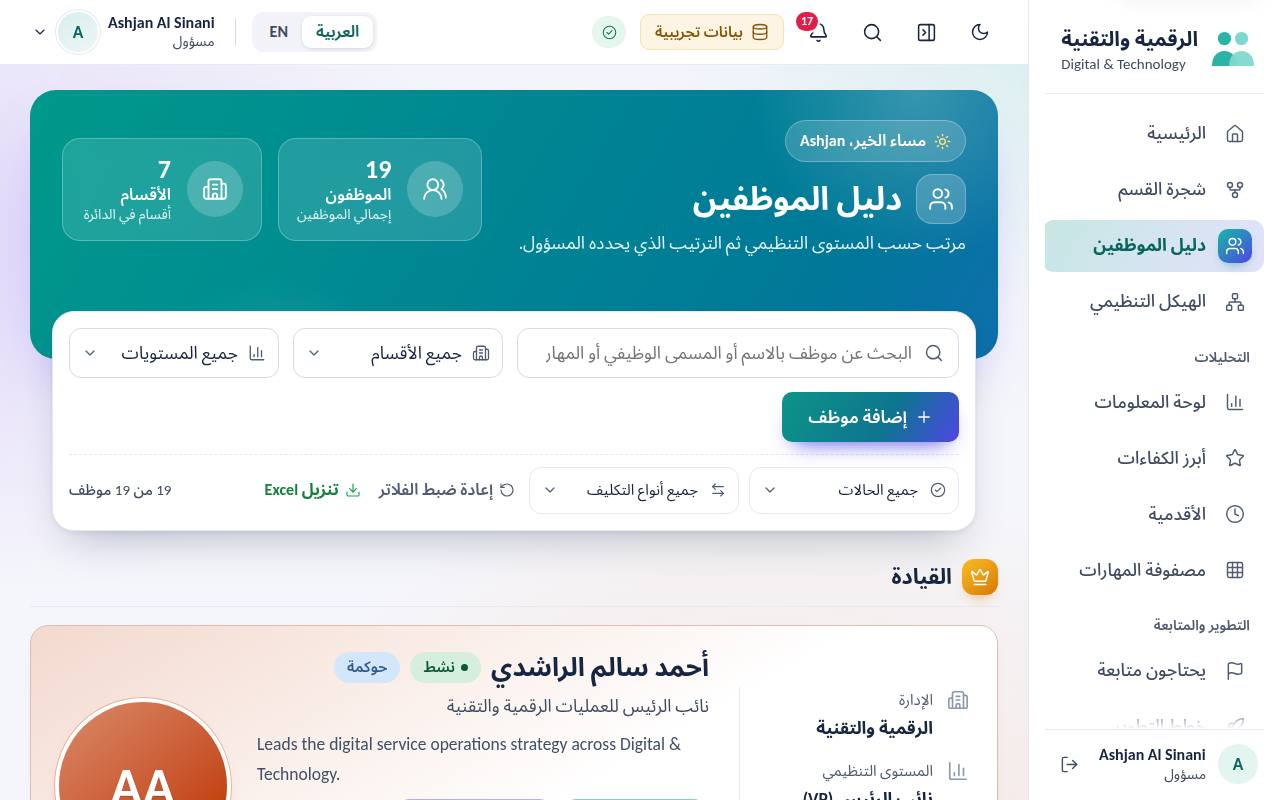
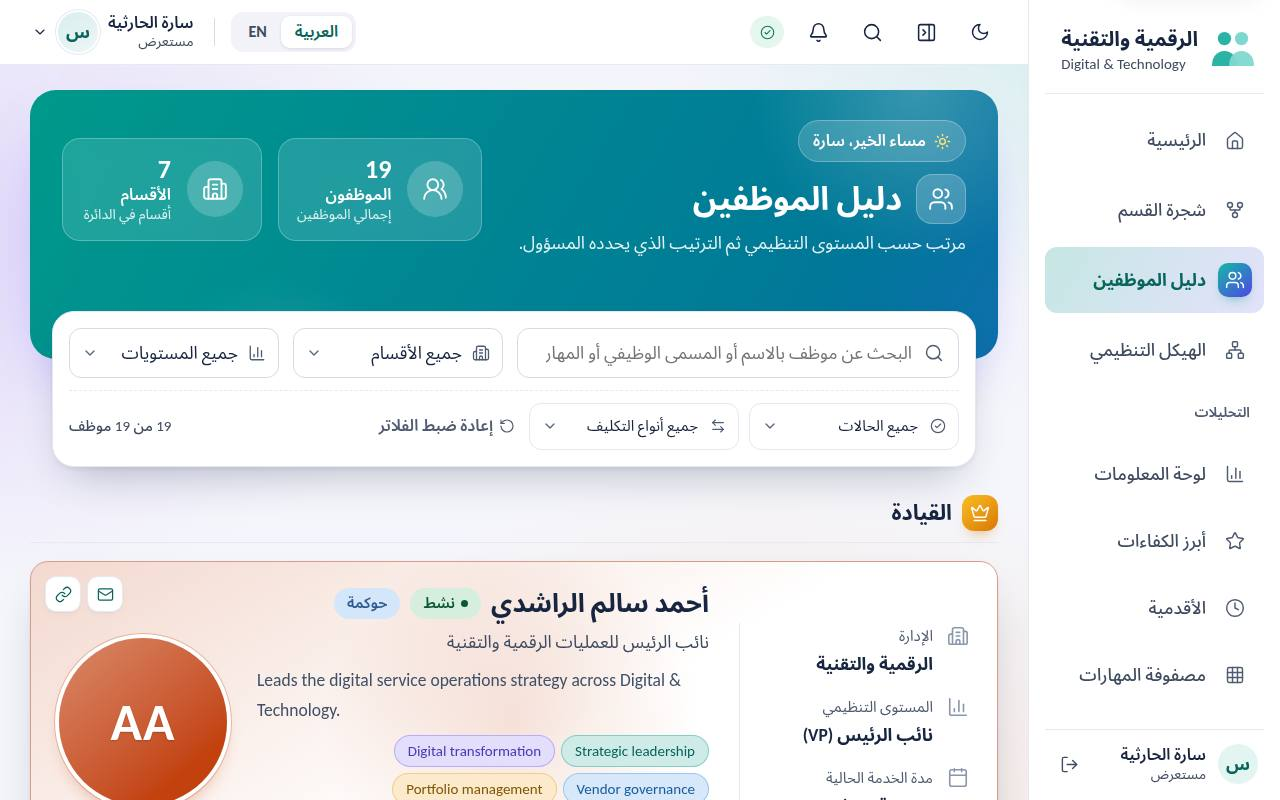
Narrate the tour in English and make it user-only
- English voice-over for every step using the browser's built-in
  speech synthesis (free, no server): best available English voice,
  steps wait for each sentence, pause/resume restarts the line, mute
  toggle remembered (M key); falls back to captions if no voice.
- Tour now covers what regular users see only (8 steps), with all
  screenshots retaken from a viewer account; admin and manager steps
  removed. Auto-opens for new users after the first-login password
  change, never for the owner; sign-out now returns to Home.
- Viewers' dashboard shows "Department overview" without management
  priorities or the high-priority column.

Claude-Session: https://claude.ai/code/session_01KUe5c3eo34UUJyRfExNPRe

diff --git a/employee-directory/assets/app.js b/employee-directory/assets/app.js
@@ -311,7 +311,7 @@ D.employees.forEach((e,ix)=>{let d;try{d=JSON.parse(e.data)}catch{return}if(d.ro
       </div>
     </header>
     <div id="dbody">
-      <section class="dx" id="dxec" aria-label="${a(i?"ملخص الإدارة":"Management summary")}"></section>
+      <section class="dx" id="dxec" aria-label="${a(i?"ملخص":"Summary")}"></section>
       <h2 class="dx-divider">${h("chart-pie",20)}<span>${a(i?"تفاصيل القوى العاملة":"Workforce details")}</span></h2>
       <section class="kpis" aria-label="${a(t("dashTitle"))}">
         ${Dk(p).map(g=>`<article class="kpi kpi-${g.tone}" data-dk="${g.id}" tabindex="0" role="button" aria-label="${a(g.label+" — "+(i?"عرض الموظفين":"show employees"))}" ${g.hid?"data-hidden":""} ${g.hint?`title="${a(g.hint)}"`:""}>${r.isAdmin()?Dtl("kpi",g):""}
@@ -1182,7 +1182,7 @@ async function Hr(e,n,{store:r}){let T=Tx,ar=E()==="ar";e.innerHTML=`<div class=
     <section class="h2-card h2-links"><header class="h2-ch"><span class="h2-ci" style="--c:#64748B">${h("compass",18)}</span><h2>${a(T("انتقال سريع","Jump to"))}</h2></header><div class="h2-qgrid">${links.map(([hf,ic,cl,l])=>`<a href="${hf}" style="--c:${cl}"><span>${h(ic,18)}</span>${a(l)}</a>`).join("")}</div></section>
    </div>
   </div></div>`;
- (()=>{let k="dtd-tour-"+(r.user&&r.user.id),seen=!1;try{seen=!!localStorage.getItem(k)}catch{}seen||setTimeout(()=>{location.hash.startsWith("#/home")||location.hash===""?Topen(0):0},700)})();
+ (()=>{let k="dtd-tour-"+(r.user&&r.user.id),seen=r.isAdmin();try{seen=seen||!!localStorage.getItem(k)}catch{}seen||(()=>{let n2=0,go=()=>{if(!(location.hash.startsWith("#/home")||location.hash===""))return;if(m(".modal-wrap")&&n2++<600){setTimeout(go,500);return}Topen(0)};setTimeout(go,700)})()})();
  m(".h2-search",e).onsubmit=z=>{z.preventDefault();let v=m("#h2q",e).value.trim();window.__DTD_FOCUS_SEARCH=!0;v&&(window.__DTD_Q=v);mt("#/directory",{force:!0})};
  e.onclick=z=>{let b=z.target.closest("[data-hm-bell]");b&&(z.preventDefault(),z.stopPropagation(),scrollTo({top:0,behavior:"smooth"}),setTimeout(()=>Bopen(),250))}}
 /* ---------- Org chart (top-down tree) ---------- */
@@ -1224,7 +1224,7 @@ async function Ocr(e,n,{store:r}){let T=Tx,ar=E()==="ar";e.innerHTML=`<div class
 var Xst=(v,good,warn,inv)=>inv?(v<=good?"ok":v<=warn?"warn":"crit"):(v>=good?"ok":v>=warn?"warn":"crit"),
  Xsl=k=>({ok:[Tx("جيد","Good"),"circle-check"],warn:[Tx("يحتاج انتباه","Watch"),"alert-triangle"],crit:[Tx("حرج","Critical"),"flag"]})[k],
  Xpc=(x,y)=>y?Math.round(x/y*100):0,Xcnt=k=>k===1?"موظف واحد":k===2?"موظفان":k<11?`${k} موظفين`:`${k} موظفًا`;
-window.__exr=(e,g)=>{let box=m("#dxec",e);if(!box)return;let T=Tx,adm=de.isAdmin(),meta=de.meta,ar=E()==="ar",
+window.__exr=(e,g)=>{let box=m("#dxec",e);if(!box)return;let T=Tx,adm=de.isAdmin(),mgr=adm||de.user&&de.user.role==="manager",meta=de.meta,ar=E()==="ar",
  act=g.filter(p=>!p.status||p.status==="Active"),n=act.length,left=g.filter(p=>p.status&&p.status!=="Active"),
  full=act.filter(p=>p.readiness==="Fully Capable"),part=act.filter(p=>p.readiness==="Partially Capable"),unk=act.filter(p=>!p.readiness),
  up=act.filter(p=>p.upskilling==="Yes"),gap=act.filter(p=>p.upskilling==="Yes"&&p.skillCriticality==="High"),
@@ -1261,17 +1261,17 @@ window.__exr=(e,g)=>{let box=m("#dxec",e);if(!box)return;let T=Tx,adm=de.isAdmin
  let rcat=[["Fully Capable",T("قادر بالكامل","Fully capable"),"var(--xr1)"],["Partially Capable",T("قادر جزئيًا","Partly capable"),"var(--xr2)"],["",T("غير محدد","Not recorded"),"var(--xr0)"]],
  bands=[[0,2,T("أقل من سنتين","< 2 yrs")],[2,5,T("2–5 سنوات","2–5 yrs")],[5,10,T("5–10 سنوات","5–10 yrs")],[10,15,T("10–15 سنة","10–15 yrs")],[15,99,T("15+ سنة","15+ yrs")]],
  bc=bands.map(([a2,b2])=>act.filter(p=>{let x=Mt(p.hireDate);return x&&x.decimalYears>=a2&&x.decimalYears<b2}).length),bmx=Math.max(1,...bc),
- cols=[["d",T("القسم","Department")],["n",T("العدد","Headcount")],["full",T("قادر بالكامل","Fully capable")],["up",T("رفع مهارات","Upskilling")],["tal",T("متوسط الكفاءة","Avg. talent")],["hi",T("متابعة عالية","High priority")]],
+ cols=[["d",T("القسم","Department")],["n",T("العدد","Headcount")],["full",T("قادر بالكامل","Fully capable")],["up",T("رفع مهارات","Upskilling")],["tal",T("متوسط الكفاءة","Avg. talent")],...de.can("attention")?[["hi",T("متابعة عالية","High priority")]]:[]],
  cell=(z,k)=>{let v=z[k],s2=k==="full"?Xst(v,70,50):k==="up"?Xst(v,20,40,!0):k==="tal"?Xst(v,70,55):k==="hi"?Xst(v,0,1,!0):"";return k==="d"?`<th scope="row"><button type="button" data-xq="department=${a(encodeURIComponent(z.d))}">${a(B(z.d))}</button></th>`:`<td${s2?` class="xs-${s2}" title="${a(Xsl(s2)[0])}"`:""}>${k==="full"||k==="up"?`<span class="xmeter" style="--v:${v}%"><i></i></span><b>${v}%</b>`:`<b>${v}</b>`}${k==="hi"&&v?`<span class="xdot"></span>`:""}</td>`},
  sorted=deps.slice().sort((x,y)=>{let k=st.sort,a3=x[k],b3=y[k];return(typeof a3==="string"?String(B(a3)).localeCompare(B(b3)):a3-b3)*st.dir});
- box.innerHTML=`<div class="dx-head"><h2>${h("target",22)}<span>${a(T("ملخص الإدارة","Management summary"))}</span></h2><p>${a(T(`محسوب من ${n} ${n>2&&n<11?"موظفين نشطين":"موظفًا نشطًا"}${Object.values(ke).some(Boolean)?" ضمن الفلاتر المطبّقة":""}.`,`Based on ${n} active employees${Object.values(ke).some(Boolean)?" within the current filters":""}.`))}</p></div>
+ box.innerHTML=`<div class="dx-head"><h2>${h("target",22)}<span>${a(mgr?T("ملخص الإدارة","Management summary"):T("نظرة عامة على القسم","Department overview"))}</span></h2><p>${a(T(`محسوب من ${n} ${n>2&&n<11?"موظفين نشطين":"موظفًا نشطًا"}${Object.values(ke).some(Boolean)?" ضمن الفلاتر المطبّقة":""}.`,`Based on ${n} active employees${Object.values(ke).some(Boolean)?" within the current filters":""}.`))}</p></div>
   <div class="dx-areas">${areas.map((z,i)=>{let [sl,sic]=Xsl(z.st);return`<article class="dx-area dx-${z.st}" style="--i:${i}"><header><span class="dx-a-ic">${h(z.ic,19)}</span><h3>${a(z.tl)}</h3><span class="dx-st">${h(sic,14)}${a(sl)}</span></header>
    <button type="button" class="dx-hero" data-xq="${a(z.q)}"><strong>${z.v}</strong><span>${a(z.l)}</span></button><span class="xmeter dx-meter" style="--v:${z.bar}%"><i></i></span>
    <ul>${z.sub.map(([l,v,q])=>`<li><button type="button" data-xq="${a(q)}"><span>${a(l)}</span><b>${v}</b></button></li>`).join("")}</ul></article>`}).join("")}</div>
-  <div class="dx-row">
-   <section class="dx-card dx-prio"><h3>${h("flag",19)}<span>${a(T("أولويات الإدارة","Management priorities"))}</span></h3>
+  <div class="dx-row${mgr?"":" dx-row-one"}">
+   ${mgr?`<section class="dx-card dx-prio"><h3>${h("flag",19)}<span>${a(T("أولويات الإدارة","Management priorities"))}</span></h3>
     ${pr.length?`<ol>${pr.map((z,i)=>`<li class="dx-w${z.w}" style="--i:${i}"><span class="dx-p-n">${i+1}</span><span class="dx-p-ic">${h(z.ic,17)}</span><div><strong>${a(z.t)}</strong><small>${a(z.d)}</small></div>${z.go?`<a class="btn btn-ghost btn-sm" href="${z.go}">${a(z.cta)}</a>`:`<button type="button" class="btn btn-ghost btn-sm" data-xq="${a(z.q)}">${a(z.cta)}</button>`}</li>`).join("")}</ol>`:`<p class="hm-calm">${h("circle-check",18)}<span>${a(T("لا توجد أولويات عاجلة — الوضع مستقر ✨","No urgent priorities — all stable ✨"))}</span></p>`}
-    <p class="dx-note">${h("info",14)}<span>${a(T("تُستخرج تلقائيًا من البيانات بقواعد ثابتة، وتُرتَّب حسب الخطورة.","Generated from the data with fixed rules, ordered by severity."))}</span></p></section>
+    <p class="dx-note">${h("info",14)}<span>${a(T("تُستخرج تلقائيًا من البيانات بقواعد ثابتة، وتُرتَّب حسب الخطورة.","Generated from the data with fixed rules, ordered by severity."))}</span></p></section>`:""}
    <section class="dx-card dx-readiness"><h3>${h("award",19)}<span>${a(T("الجاهزية حسب القسم","Readiness by department"))}</span></h3>
     <ul class="dx-legend">${rcat.map(([k,l,c])=>`<li><i style="background:${c}"></i>${a(l)}</li>`).join("")}</ul>
     <ul class="dx-stack">${deps.slice().sort((x,y)=>y.full-x.full).map(z=>`<li><span class="dx-s-l">${a(B(z.d))}<small>${z.n}</small></span><span class="dx-s-bar">${rcat.map(([k,l,c])=>{let c2=z.ps.filter(p=>(p.readiness||"")===k).length,w=Xpc(c2,z.n);return c2?`<button type="button" style="flex:${c2};background:${c}" data-xq="department=${a(encodeURIComponent(z.d))}&readiness=${a(encodeURIComponent(k))}" data-tip="${a(`${B(z.d)} · ${l}: ${c2} (${w}%)`)}" aria-label="${a(`${l}: ${c2}`)}">${w>=22?`<b>${w}%</b>`:""}</button>`:""}).join("")}</span></li>`).join("")}</ul></section>
@@ -1465,23 +1465,30 @@ new MutationObserver(()=>{let f=document.querySelector(".login-form");if(!f||f.d
  f.addEventListener("submit",z=>{let lk=Lk();if(lk.until&&lk.until>Date.now()){z.stopImmediatePropagation();z.preventDefault();let er=f.querySelector(".form-error");er.hidden=!1;er.textContent=Tx(`محاولات كثيرة. حاولي بعد ${Math.ceil((lk.until-Date.now())/1e3)} ثانية.`,`Too many attempts. Try again in ${Math.ceil((lk.until-Date.now())/1e3)} s.`)}},!0)}).observe(document.body,{childList:!0});
 
 /* ---------- Guided tour (video-style player) ---------- */
-var Timg={home:"assets/tour/home.jpg",focus:"assets/tour/focus.jpg",directory:"assets/tour/directory.jpg",profile:"assets/tour/profile.jpg",orgchart:"assets/tour/orgchart.jpg",dashboard:"assets/tour/dashboard.jpg",drill:"assets/tour/drill.jpg",bell:"assets/tour/bell.jpg",edit:"assets/tour/edit.jpg",plans:"assets/tour/plans.jpg",import:"assets/tour/import.jpg",users:"assets/tour/users.jpg",settings:"assets/tour/settings.jpg"},Trect={home:{"x": 28.1, "y": 36.86, "w": 46.9, "h": 7.25},focus:{"x": 31.24, "y": 27.64, "w": 46.73, "h": 44.73},directory:{"x": 40.39, "y": 40.95, "w": 34.53, "h": 6.33},profile:{"x": 2.42, "y": 55.05, "w": 75.47, "h": 13.37},orgchart:{"x": 2.34, "y": 47.97, "w": 75.63, "h": 52.03},dashboard:{"x": 2.34, "y": 18, "w": 75.63, "h": 36.67},drill:{"x": 16.41, "y": 2, "w": 67.19, "h": 96},bell:{"x": 34.22, "y": 7.5, "w": 31.25, "h": 70},edit:{"x": 0, "y": 90.88, "w": 80.63, "h": 9.13},plans:{"x": 2.34, "y": 32.33, "w": 75.63, "h": 12.2},import:{"x": 2.34, "y": 43.25, "w": 75.63, "h": 56.75},users:{"x": 16.41, "y": 2, "w": 67.19, "h": 96},settings:{"x": 46.26, "y": 1.5, "w": 31.87, "h": 5}},
+var Timg={home:"assets/tour/home.jpg",directory:"assets/tour/directory.jpg",profile:"assets/tour/profile.jpg",orgchart:"assets/tour/orgchart.jpg",dashboard:"assets/tour/dashboard.jpg",drill:"assets/tour/drill.jpg",bell:"assets/tour/bell.jpg",settings:"assets/tour/settings.jpg"},Trect={home:{"x": 28.1, "y": 36.86, "w": 46.9, "h": 7.25},directory:{"x": 40.39, "y": 40.95, "w": 34.53, "h": 6.33},profile:{"x": 2.42, "y": 55.05, "w": 75.47, "h": 13.37},orgchart:{"x": 2.34, "y": 47.97, "w": 75.63, "h": 52.03},dashboard:{"x": 2.34, "y": 18, "w": 75.63, "h": 34.17},drill:{"x": 16.41, "y": 5.78, "w": 67.19, "h": 88.44},bell:{"x": 34.22, "y": 7.5, "w": 31.25, "h": 33.95},settings:{"x": 58.59, "y": 1.5, "w": 19.53, "h": 5}},
  Tsteps=()=>{let T=Tx;return[
- {id:"home",t:T("الصفحة الرئيسية","Home"),d:T("ملخص يومك عند كل دخول: الأرقام المهمة، وبحث سريع عن أي موظف بالاسم أو المسمى الوظيفي.","Your daily summary: key numbers and a quick search for anyone by name or job title.")},
- {id:"focus",t:T("تركيز اليوم","Today's focus"),d:T("ما يحتاج انتباهك اليوم في مكان واحد. اضغط على أي بند للانتقال إليه مباشرة.","Everything that needs attention today, in one place. Select an item to jump to it.")},
- {id:"directory",t:T("دليل الموظفين","Employee directory"),d:T("ابحث وفلتر حسب الإدارة والمستوى والحالة، وتواصل مع الموظف بالبريد أو الهاتف بضغطة.","Search and filter by department, level and status; email or call in one click.")},
- {id:"profile",t:T("ملف الموظف","Employee profile"),d:T("كل ما يخص الموظف: مدة الخدمة والكفاءة، ثم التبويبات للبيانات الوظيفية والمؤهلات والتدريب.","Everything about a person: service, talent score, then tabs for details, education and training.")},
- {id:"orgchart",t:T("شجرة القسم","Org chart"),d:T("من تحت من، من نائب الرئيس إلى الفريق. ابحث عن شخص، واطوِ الفرق، وكبّر وصغّر.","Who reports to whom, from VP to team. Search, collapse teams and zoom.")},
- {id:"dashboard",t:T("لوحة المعلومات","Dashboard"),d:T("ملخص الإدارة: الجاهزية والمهارات والاستمرارية والاستقرار، ولكل منها حالة واضحة.","Management summary: readiness, skills, continuity and stability, each with a clear status.")},
- {id:"drill",t:T("اضغط لترى الأسماء","Select to see names"),d:T("أي رقم أو جزء من الرسوم يفتح قائمة الموظفين خلفه، مع البحث والتنزيل.","Any number or chart part opens the employees behind it, with search and download.")},
- {id:"bell",t:T("التنبيهات","Alerts"),d:T("الجرس أعلى الصفحة يذكّرك بذكرى الخدمة والشهادات والخطط المتأخرة. يمكن إخفاء أي تنبيه.","The bell reminds you about anniversaries, certificates and overdue plans. Dismiss any alert.")},
- {id:"edit",perm:"edit",t:T("تعديل البيانات","Editing details"),d:T("عدّل بيانات الموظف ثم احفظ من الشريط السفلي. كل تغيير يُسجَّل في سجل النشاط.","Edit a person's details, then save from the bar at the bottom. Every change is logged.")},
- {id:"plans",perm:"plans",t:T("خطط التطوير","Development plans"),d:T("بنود لكل موظف بمواعيد وحالة، مع اقتراحات تلقائية حسب احتياجه.","Items for each person with dates and status, plus automatic suggestions.")},
- {id:"import",admin:1,t:T("الاستيراد من Excel","Import from Excel"),d:T("نزّل القالب، عبّئه، ثم ارفعه وراجع المعاينة قبل الحفظ. والصور تُرفع دفعة واحدة باسم الرقم الوظيفي.","Download the template, fill it, upload and review the preview before saving. Upload photos in bulk named by employee no.")},
- {id:"users",admin:1,t:T("المستخدمون والصلاحيات","Users & access"),d:T("أضف مشاهدًا أو مدير قسم أو مسؤولًا، وحدّد الأقسام والصلاحيات لكل شخص.","Add a viewer, department manager or admin, and choose departments and permissions.")},
- {id:"settings",t:T("أدوات سريعة","Quick tools"),d:T("أعلى الصفحة: البحث السريع (Ctrl+K)، والتنبيهات، وإخفاء القائمة، والوضع الداكن، واللغة.","At the top: quick search (Ctrl+K), alerts, hide the menu, dark mode and language.")}
- ].filter(s2=>s2.admin?de.isAdmin():s2.perm?de.can(s2.perm):!0)};
-var Tdur=6500,
+ {id:"home",t:T("الصفحة الرئيسية","Home"),d:T("ملخص يومك عند كل دخول: أهم الأرقام، وبحث سريع عن أي زميل بالاسم أو المسمى الوظيفي.","Your daily summary: key numbers and a quick search for any colleague by name or job title.")},
+ {id:"directory",t:T("دليل الموظفين","Employee directory"),d:T("ابحث وفلتر حسب الإدارة والمستوى، وتواصل مع زميلك بالبريد أو الهاتف بضغطة واحدة.","Search and filter by department and level; email or call a colleague in one click.")},
+ {id:"profile",t:T("ملف الموظف","Employee profile"),d:T("اضغط على أي اسم لفتح ملفه: المسمى والقسم ومدة الخدمة، ثم التبويبات للبيانات الوظيفية والمؤهلات والتدريب.","Open anyone's profile: role, department and service, then tabs for job details, education and training.")},
+ {id:"orgchart",t:T("شجرة القسم","Org chart"),d:T("اعرف من يتبع لمن، من نائب الرئيس إلى الفريق. ابحث عن شخص، واطوِ الفرق، وكبّر وصغّر.","See who reports to whom, from VP to each team. Search, collapse teams and zoom.")},
+ {id:"dashboard",t:T("لوحة المعلومات","Dashboard"),d:T("صورة عامة عن القسم: الجاهزية والمهارات والخبرة، مع رسوم بيانية واضحة.","An overview of the department: readiness, skills and experience, with clear charts.")},
+ {id:"drill",t:T("اضغط لترى الأسماء","Select to see names"),d:T("أي رقم أو جزء من الرسوم يفتح قائمة الموظفين خلفه، ويمكنك البحث فيها.","Any number or chart part opens the employees behind it, with search.")},
+ {id:"bell",t:T("التنبيهات","Alerts"),d:T("الجرس أعلى الصفحة يذكّرك بالمناسبات مثل ذكرى سنوات الخدمة لزملائك.","The bell reminds you of occasions such as colleagues' service anniversaries.")},
+ {id:"settings",t:T("أدوات سريعة","Quick tools"),d:T("أعلى الصفحة: البحث السريع، والتنبيهات، والوضع الداكن، واللغة. ومن قائمة اسمك: تغيير كلمة المرور وإعادة هذه الجولة.","At the top: quick search, alerts, dark mode and language. From your name menu: change password or replay this tour.")}
+ ].filter(s2=>!!Timg[s2.id])};
+var Tvo={home:"Welcome to the employee platform! This is your home page. Each time you sign in, you'll see the key numbers for today, and you can search for any colleague by name or job title.",
+ directory:"The employee directory helps you find people quickly. Filter by department or level, and email or call a colleague with a single click.",
+ profile:"Select any name to open their profile. You'll see their role, department and years of service, and the tabs show job details, education and training.",
+ orgchart:"The org chart shows who reports to whom, from the vice president down to each team. Search for a person, collapse teams, and zoom in or out.",
+ dashboard:"The dashboard gives you an overview of the department: readiness, skills and experience, with clear, simple charts.",
+ drill:"Select any number, or any part of a chart, to see the people behind it. You can search the list right there.",
+ bell:"The bell at the top keeps you updated on occasions, like your colleagues' service anniversaries.",
+ settings:"Finally, the top bar has quick search, alerts, dark mode and language. From your name menu, you can change your password or watch this tour again. Enjoy!"},
+ Tsay=(()=>{let ok=typeof speechSynthesis<"u"&&typeof SpeechSynthesisUtterance<"u",best=null,pick=()=>{if(!ok)return null;let vs=speechSynthesis.getVoices().filter(v=>/^en(-|_|$)/i.test(v.lang));if(!vs.length)return null;let sc=v=>(/natural|neural|online/i.test(v.name)?40:0)+(/google us english|samantha|aria|jenny|ava|allison|serena|daniel|libby|sonia/i.test(v.name)?30:0)+(/en[-_]us/i.test(v.lang)?10:/en[-_]gb/i.test(v.lang)?6:0)+(v.localService?2:0);return vs.sort((x,y)=>sc(y)-sc(x))[0]};
+  ok&&(best=pick(),speechSynthesis.addEventListener&&speechSynthesis.addEventListener("voiceschanged",()=>{best=pick()}));
+  return{ok:()=>ok&&!!(best||pick()),speak:(txt,done)=>{if(!ok){done&&done();return}speechSynthesis.cancel();best=best||pick();let u=new SpeechSynthesisUtterance(txt);u.lang="en-US";best&&(u.voice=best);u.rate=1;u.pitch=1;let fin=!1,f=()=>{fin||(fin=!0,done&&done())};u.onend=f;u.onerror=f;speechSynthesis.speak(u);return u},stop:()=>{ok&&speechSynthesis.cancel()}}})(),
+ Tvon=()=>{try{return localStorage.getItem("dtd-tour-voice")!=="0"}catch{return!0}},
+ Tdur=6500,Test=id=>Math.max(Tdur,Tvo[id].split(/\s+/).length/2.5*1e3+900),
  Topen=(start=0)=>{if(m(".tp-wrap"))return;let T=Tx,st=Tsteps(),i=Math.max(0,Math.min(start,st.length-1)),play=!0,t0=0,el0=0,raf=0,prevC={x:50,y:50},rm=_e(),
  w=document.createElement("div");w.className="tp-wrap";w.setAttribute("role","dialog");w.setAttribute("aria-modal","true");w.setAttribute("aria-label",T("جولة تعليمية","Guided tour"));
  w.innerHTML=`<div class="tp"><header class="tp-top"><span class="tp-badge">${h("sparkles",15)}${a(T("جولة تعليمية","Guided tour"))}</span><span class="tp-count" aria-live="polite"></span><button type="button" class="tp-ib" data-tp="close" aria-label="${a(t("close"))}" title="${a(t("close"))}">${h("x",20)}</button></header>
@@ -1489,13 +1496,16 @@ var Tdur=6500,
    <div class="tp-end" hidden><div>${h("circle-check",44)}<h3>${a(T("انتهت الجولة 🎉","That's the tour 🎉"))}</h3><p>${a(T("يمكنك مشاهدتها مرة أخرى في أي وقت من الصفحة الرئيسية أو من قائمة اسمك.","Watch it again any time from Home or your name menu."))}</p><div class="tp-end-b"><button type="button" class="btn btn-ghost" data-tp="replay">${h("rotate-ccw",16)}<span>${a(T("إعادة","Replay"))}</span></button><button type="button" class="btn btn-primary" data-tp="close">${a(T("ابدأ الاستخدام","Start using it"))}</button></div></div></div></div>
   <div class="tp-cap"><h3></h3><p></p></div>
   <div class="tp-bar">${st.map((s2,k)=>`<button type="button" data-tp-go="${k}" title="${a(s2.t)}" aria-label="${a(`${k+1}. ${s2.t}`)}"><i></i></button>`).join("")}</div>
-  <div class="tp-ctrl"><button type="button" class="tp-ib" data-tp="prev" aria-label="${a(T("السابق","Previous"))}">${h(E()==="ar"?"chevron-right":"chevron-left",22)}</button><button type="button" class="tp-play" data-tp="play" aria-label="${a(T("إيقاف مؤقت","Pause"))}"></button><button type="button" class="tp-ib" data-tp="next" aria-label="${a(T("التالي","Next"))}">${h(E()==="ar"?"chevron-left":"chevron-right",22)}</button><span class="tp-time"></span><button type="button" class="tp-ib tp-fs" data-tp="fs" aria-label="${a(T("ملء الشاشة","Full screen"))}" title="${a(T("ملء الشاشة","Full screen"))}">${h("zoom-in",19)}</button></div></div>`;
+  <div class="tp-ctrl"><button type="button" class="tp-ib" data-tp="prev" aria-label="${a(T("السابق","Previous"))}">${h(E()==="ar"?"chevron-right":"chevron-left",22)}</button><button type="button" class="tp-play" data-tp="play" aria-label="${a(T("إيقاف مؤقت","Pause"))}"></button><button type="button" class="tp-ib" data-tp="next" aria-label="${a(T("التالي","Next"))}">${h(E()==="ar"?"chevron-left":"chevron-right",22)}</button><span class="tp-time"></span><button type="button" class="tp-ib tp-vo" data-tp="voice"></button><button type="button" class="tp-ib tp-fs" data-tp="fs" aria-label="${a(T("ملء الشاشة","Full screen"))}" title="${a(T("ملء الشاشة","Full screen"))}">${h("zoom-in",19)}</button></div></div>`;
  document.body.appendChild(w);document.documentElement.classList.add("tp-open");st.forEach(s2=>{let im=new Image;im.src=Timg[s2.id]});
- let img=m(".tp-img",w),spot=m(".tp-spot",w),cur=m(".tp-cur",w),zoom=m(".tp-zoom",w),end=m(".tp-end",w),segs=N(".tp-bar i",w),pb=m(".tp-play",w),
+ let vOn=Tvon(),spoken=!0,need=Tdur,img=m(".tp-img",w),spot=m(".tp-spot",w),cur=m(".tp-cur",w),zoom=m(".tp-zoom",w),end=m(".tp-end",w),segs=N(".tp-bar i",w),pb=m(".tp-play",w),
  icPlay=`<svg viewBox="0 0 24 24" width="26" height="26" aria-hidden="true"><path d="M7 4.5v15l13-7.5z" fill="currentColor"/></svg>`,icPause=`<svg viewBox="0 0 24 24" width="26" height="26" aria-hidden="true"><rect x="6" y="4.5" width="4.2" height="15" rx="1.2" fill="currentColor"/><rect x="13.8" y="4.5" width="4.2" height="15" rx="1.2" fill="currentColor"/></svg>`,
+ icOn=`<svg viewBox="0 0 24 24" width="21" height="21" fill="none" stroke="currentColor" stroke-width="1.9" stroke-linecap="round" stroke-linejoin="round" aria-hidden="true"><path d="M11 5 6 9H3v6h3l5 4z"/><path d="M15.5 8.5a5 5 0 0 1 0 7"/><path d="M18.5 5.5a9 9 0 0 1 0 13"/></svg>`,icOff=`<svg viewBox="0 0 24 24" width="21" height="21" fill="none" stroke="currentColor" stroke-width="1.9" stroke-linecap="round" stroke-linejoin="round" aria-hidden="true"><path d="M11 5 6 9H3v6h3l5 4z"/><path d="m22 9-6 6M16 9l6 6"/></svg>`,
+ vb=m(".tp-vo",w),setV=v=>{vOn=v&&Tsay.ok();try{localStorage.setItem("dtd-tour-voice",v?"1":"0")}catch{}vb.innerHTML=vOn?icOn:icOff;vb.setAttribute("aria-pressed",String(vOn));let lbl=!Tsay.ok()?T("الصوت غير متاح في هذا المتصفح","Narration isn't available in this browser"):vOn?T("كتم الشرح الصوتي","Mute narration"):T("تشغيل الشرح الصوتي (إنجليزي)","Turn on narration (English)");vb.setAttribute("aria-label",lbl);vb.title=lbl;vb.disabled=!Tsay.ok();vOn?play&&end.hidden&&talk():(Tsay.stop(),spoken=!0)},
+ talk=()=>{let s2=st[i];if(!vOn||!s2){spoken=!0;return}spoken=!1;let k=i;need=Test(s2.id);Tsay.speak(Tvo[s2.id],()=>{k===i&&(spoken=!0)})},
  fmt=ms=>{let s3=Math.max(0,Math.round(ms/1e3));return`${Math.floor(s3/60)}:${String(s3%60).padStart(2,"0")}`},
- setPlay=v=>{play=v;pb.innerHTML=v?icPause:icPlay;pb.setAttribute("aria-label",v?T("إيقاف مؤقت","Pause"):T("تشغيل","Play"));w.classList.toggle("tp-paused",!v);v&&(t0=performance.now()-el0)},
- show=k=>{i=k;end.hidden=!0;let s2=st[i],r2=Trect[s2.id]||{x:40,y:40,w:20,h:20},cx=r2.x+r2.w/2,cy=r2.y+r2.h/2;
+ setPlay=v=>{let was=play;play=v;v!==was&&(v?(el0=0,end.hidden&&show(i,!0)):(Tsay.stop(),spoken=!0));pb.innerHTML=v?icPause:icPlay;pb.setAttribute("aria-label",v?T("إيقاف مؤقت","Pause"):T("تشغيل","Play"));w.classList.toggle("tp-paused",!v);v&&(t0=performance.now()-el0)},
+ show=(k,keep)=>{i=k;end.hidden=!0;need=Tdur;let s2=st[i],r2=Trect[s2.id]||{x:40,y:40,w:20,h:20},cx=r2.x+r2.w/2,cy=r2.y+r2.h/2;
   zoom.classList.remove("tp-kb");zoom.style.transformOrigin=`${cx}% ${cy}%`;void zoom.offsetWidth;rm||zoom.classList.add("tp-kb");
   img.classList.remove("tp-in");img.src=Timg[s2.id];void img.offsetWidth;img.classList.add("tp-in");
   spot.classList.remove("tp-on");Object.assign(spot.style,{left:r2.x+"%",top:r2.y+"%",width:r2.w+"%",height:r2.h+"%"});
@@ -1504,16 +1514,16 @@ var Tdur=6500,
   setTimeout(()=>{i===k&&spot.classList.add("tp-on")},rm?0:900);
   m(".tp-cap h3",w).textContent=s2.t;m(".tp-cap p",w).textContent=s2.d;m(".tp-count",w).textContent=`${i+1} / ${st.length}`;
   m(".tp-cap",w).classList.remove("tp-cin");void w.offsetWidth;m(".tp-cap",w).classList.add("tp-cin");
-  segs.forEach((g,j)=>g.style.width=j<i?"100%":"0%");el0=0;t0=performance.now()},
- tick=now=>{if(play&&end.hidden){el0=now-t0;let pc=Math.min(1,el0/Tdur);segs[i]&&(segs[i].style.width=pc*100+"%");if(pc>=1){i<st.length-1?show(i+1):(segs[i].style.width="100%",end.hidden=!1,setPlay(!1))}}
-  m(".tp-time",w).textContent=`${fmt(i*Tdur+(end.hidden?el0:Tdur))} / ${fmt(st.length*Tdur)}`;raf=requestAnimationFrame(tick)},
- close=()=>{cancelAnimationFrame(raf);document.removeEventListener("keydown",key,!0);document.fullscreenElement&&document.exitFullscreen().catch(()=>{});w.classList.add("tp-out");setTimeout(()=>{w.remove();document.documentElement.classList.remove("tp-open")},220);try{localStorage.setItem("dtd-tour-"+(de.user&&de.user.id),"1")}catch{}},
- key=z=>{if(z.key==="Escape"){z.preventDefault();close()}else if(z.key===" "||z.key==="k"){z.preventDefault();setPlay(!play)}else if(z.key==="ArrowLeft"||z.key==="ArrowRight"){z.preventDefault();let fwd=(z.key==="ArrowLeft")===(E()==="ar");fwd?i<st.length-1&&show(i+1):i>0&&show(i-1)}};
- w.addEventListener("click",z=>{let b=z.target.closest("[data-tp]");if(b){let k=b.dataset.tp;k==="close"?close():k==="play"?setPlay(!play):k==="next"?i<st.length-1?show(i+1):(end.hidden=!1,setPlay(!1)):k==="prev"?i>0&&show(i-1):k==="replay"?(show(0),setPlay(!0)):k==="fs"&&(document.fullscreenElement?document.exitFullscreen():m(".tp",w).requestFullscreen&&m(".tp",w).requestFullscreen().catch(()=>{}));return}
+  segs.forEach((g,j)=>g.style.width=j<i?"100%":"0%");el0=0;t0=performance.now();play&&vOn?talk():(Tsay.stop(),spoken=!0)},
+ tick=now=>{if(play&&end.hidden){el0=now-t0;let D2=vOn?need:Tdur,pc=Math.min(1,el0/D2);segs[i]&&(segs[i].style.width=pc*100+"%");if(pc>=1&&(spoken||el0>D2+15e3)){i<st.length-1?show(i+1):(segs[i].style.width="100%",end.hidden=!1,setPlay(!1))}}
+  {let dd=k=>vOn?Test(st[k].id):Tdur,tot=st.reduce((x,_,k)=>x+dd(k),0),pre=st.slice(0,i).reduce((x,_,k)=>x+dd(k),0);m(".tp-time",w).textContent=`${fmt(pre+(end.hidden?Math.min(el0,dd(i)):dd(i)))} / ${fmt(tot)}`}raf=requestAnimationFrame(tick)},
+ close=()=>{cancelAnimationFrame(raf);Tsay.stop();document.removeEventListener("keydown",key,!0);document.fullscreenElement&&document.exitFullscreen().catch(()=>{});w.classList.add("tp-out");setTimeout(()=>{w.remove();document.documentElement.classList.remove("tp-open")},220);try{localStorage.setItem("dtd-tour-"+(de.user&&de.user.id),"1")}catch{}},
+ key=z=>{if(z.key==="Escape"){z.preventDefault();close()}else if(z.key===" "||z.key==="k"){z.preventDefault();setPlay(!play)}else if(z.key==="m"){setV(!vOn)}else if(z.key==="ArrowLeft"||z.key==="ArrowRight"){z.preventDefault();let fwd=(z.key==="ArrowLeft")===(E()==="ar");fwd?i<st.length-1&&show(i+1):i>0&&show(i-1)}};
+ w.addEventListener("click",z=>{let b=z.target.closest("[data-tp]");if(b){let k=b.dataset.tp;k==="close"?close():k==="voice"?setV(!vOn):k==="play"?setPlay(!play):k==="next"?i<st.length-1?show(i+1):(end.hidden=!1,setPlay(!1)):k==="prev"?i>0&&show(i-1):k==="replay"?(show(0),setPlay(!0)):k==="fs"&&(document.fullscreenElement?document.exitFullscreen():m(".tp",w).requestFullscreen&&m(".tp",w).requestFullscreen().catch(()=>{}));return}
   let g=z.target.closest("[data-tp-go]");if(g){show(Number(g.dataset.tpGo));return}if(z.target===w)close();if(z.target.closest(".tp-stage")&&!z.target.closest("button"))setPlay(!play)});
- document.addEventListener("keydown",key,!0);setPlay(!0);show(i);raf=requestAnimationFrame(tick);m(".tp-play",w).focus()};
-window.__tourCard=()=>{let T=Tx,st=Tsteps();return`<section class="h2-tour"><button type="button" class="h2-tour-poster" data-tour-open="0" aria-label="${a(T("تشغيل الجولة التعليمية","Play the guided tour"))}"><img src="${Timg.home}" alt="" loading="lazy"><span class="h2-tour-play"><svg viewBox="0 0 24 24" width="30" height="30" aria-hidden="true"><path d="M8 5v14l11-7z" fill="currentColor"/></svg></span><span class="h2-tour-len">${h("clock",13)}<span dir="ltr">${Math.floor(st.length*Tdur/6e4)}:${String(Math.round(st.length*Tdur/1e3)%60).padStart(2,"0")}</span></span></button>
- <div class="h2-tour-t"><p class="h2-tour-k">${h("sparkles",15)}<span>${a(T("جديد هنا؟","New here?"))}</span></p><h2>${a(T("كيف تستخدم المنصة","How to use the platform"))}</h2><p>${a(T(`جولة قصيرة بالصور في ${st.length} خطوة تشرح أهم ما يمكنك فعله حسب صلاحياتك.`,`A short ${st.length}-step visual tour of what you can do with your access.`))}</p>
+ document.addEventListener("keydown",key,!0);play=!1;setV(vOn);setPlay(!0);raf=requestAnimationFrame(tick);m(".tp-play",w).focus()};
+window.__tourCard=()=>{let T=Tx,st=Tsteps();return`<section class="h2-tour"><button type="button" class="h2-tour-poster" data-tour-open="0" aria-label="${a(T("تشغيل الجولة التعليمية","Play the guided tour"))}"><img src="${Timg.home}" alt="" loading="lazy"><span class="h2-tour-play"><svg viewBox="0 0 24 24" width="30" height="30" aria-hidden="true"><path d="M8 5v14l11-7z" fill="currentColor"/></svg></span><span class="h2-tour-len">${h("clock",13)}${(()=>{let tt=Math.round(st.reduce((x,s2)=>x+(Tvon()?Test(s2.id):Tdur),0)/1e3);return`<span dir="ltr">${Math.floor(tt/60)}:${String(tt%60).padStart(2,"0")}</span>`})()}</span></button>
+ <div class="h2-tour-t"><p class="h2-tour-k">${h("sparkles",15)}<span>${a(T("جديد هنا؟","New here?"))}</span></p><h2>${a(T("كيف تستخدم المنصة","How to use the platform"))}</h2><p>${a(de.isAdmin()?T(`جولة لمستخدمي المنصة في ${st.length} خطوات، بصوت إنجليزي. تفتح تلقائيًا لكل مستخدم جديد عند أول دخول.`,`A ${st.length}-step narrated tour for platform users. It opens automatically on each user’s first sign-in.`):T(`جولة قصيرة في ${st.length} خطوات بصوت إنجليزي تشرح كيف تستخدم المنصة.`,`A short ${st.length}-step narrated tour of how to use the platform.`))}</p>
  <ol class="h2-tour-ch">${st.map((s2,k)=>`<li><button type="button" data-tour-open="${k}"><b>${k+1}</b>${a(s2.t)}</button></li>`).join("")}</ol></div></section>`};
 document.addEventListener("click",z=>{let b=z.target.closest("[data-tour-open],[data-act='tour']");if(!b)return;z.preventDefault();let up=m("#userPop");up&&(up.hidden=!0);Topen(Number(b.dataset.tourOpen||0))});
 
@@ -1598,7 +1608,7 @@ var Ma={};be(Ma,{render:()=>st});async function st(e,{tab:n},r){e.innerHTML=`<di
     <nav class="bottomnav" aria-label="${a(t("appName"))}">
       ${n.map(l=>`<a href="${l.href}" data-nav="${l.key}">${h(l.ic,20)}<span>${a(l.short)}</span></a>`).join("")}
     </nav>
-    <div id="toasts" class="toasts" aria-live="polite"></div>`,N("[data-lang]").forEach(l=>l.onclick=()=>{l.dataset.lang!==E()&&ei()}),m("#topSearchBtn").onclick=()=>{if(/^#\/?(directory)?$/.test(location.hash||"")){let l=m("#q");if(l){l.focus(),l.select();return}}window.__DTD_FOCUS_SEARCH=!0,mt("#/directory",{force:!0})};let i=m("#userBtn"),c=m("#userPop");i.onclick=l=>{l.stopPropagation(),c.hidden=!c.hidden,i.setAttribute("aria-expanded",String(!c.hidden))},document.addEventListener("click",l=>{!c.hidden&&!c.contains(l.target)&&(c.hidden=!0,i.setAttribute("aria-expanded","false"))}),document.body.addEventListener("click",async l=>{let s=l.target.closest("[data-act]");!s||!s.closest(".user-pop, .side-user")||(c.hidden=!0,s.dataset.act==="logout"&&(await P("/api/auth/logout",{method:"POST"}).catch(()=>{}),location.hash="#/directory",location.reload()),s.dataset.act==="password"&&ht())})}async function ei(){if(!(ae&&ae.view.canLeave&&!await ae.view.canLeave())){Ze(E()==="ar"?"en":"ar");try{localStorage.setItem("dtd-lang",E())}catch{}Ea(),ut(),xe=null,ta(!0)}}function ai(e){N("[data-nav]").forEach(n=>{let r=n.dataset.nav===e;n.classList.toggle("active",r),r?n.setAttribute("aria-current","page"):n.removeAttribute("aria-current")})}async function ta(e=!1){let n=location.hash.replace(/^#/,"")||"/home";if(_a){_a=!1;return}if(!e&&ae&&ae.view.canLeave&&xe!==null&&n!==xe&&!await ae.view.canLeave()){_a=!0,location.hash="#"+xe;return}let r=n.split("?")[0],o=dt.find(u=>u.re.test(r))||dt[0],i={},c=r.match(o.re);(o.params||[]).forEach((u,v)=>{i[u]=c[v+1]}),ae&&ae.cleanup&&ae.cleanup(),xe=n,ai(o.nav);let l=m("#view");if(o.admin&&!(de.isAdmin()||o.perm&&de.can(o.perm))){l.innerHTML=`<div class="page"><div class="empty"><span class="empty-ic empty-ic-warn">${h("lock",28)}</span><h3>${a(t("forbidden"))}</h3></div></div>`,ae=null;return}l.classList.remove("enter"),l.offsetWidth,l.classList.add("enter"),window.scrollTo({top:0,behavior:"instant"in window?"instant":"auto"});let s=await o.view.render(l,i,{store:de,navigate:mt});ae={view:o.view,cleanup:s};let p=m("h1",l);p&&document.activeElement===document.body&&p.setAttribute("tabindex","-1")}function mt(e,{force:n=!1}={}){n&&(xe=null),location.hash===e?ta(n):location.hash=e}async function ht(e=!1){let n=`${e?`<p class="modal-text">${a(t("mustChange"))}</p>`:""}
+    <div id="toasts" class="toasts" aria-live="polite"></div>`,N("[data-lang]").forEach(l=>l.onclick=()=>{l.dataset.lang!==E()&&ei()}),m("#topSearchBtn").onclick=()=>{if(/^#\/?(directory)?$/.test(location.hash||"")){let l=m("#q");if(l){l.focus(),l.select();return}}window.__DTD_FOCUS_SEARCH=!0,mt("#/directory",{force:!0})};let i=m("#userBtn"),c=m("#userPop");i.onclick=l=>{l.stopPropagation(),c.hidden=!c.hidden,i.setAttribute("aria-expanded",String(!c.hidden))},document.addEventListener("click",l=>{!c.hidden&&!c.contains(l.target)&&(c.hidden=!0,i.setAttribute("aria-expanded","false"))}),document.body.addEventListener("click",async l=>{let s=l.target.closest("[data-act]");!s||!s.closest(".user-pop, .side-user")||(c.hidden=!0,s.dataset.act==="logout"&&(await P("/api/auth/logout",{method:"POST"}).catch(()=>{}),location.hash="#/home",location.reload()),s.dataset.act==="password"&&ht())})}async function ei(){if(!(ae&&ae.view.canLeave&&!await ae.view.canLeave())){Ze(E()==="ar"?"en":"ar");try{localStorage.setItem("dtd-lang",E())}catch{}Ea(),ut(),xe=null,ta(!0)}}function ai(e){N("[data-nav]").forEach(n=>{let r=n.dataset.nav===e;n.classList.toggle("active",r),r?n.setAttribute("aria-current","page"):n.removeAttribute("aria-current")})}async function ta(e=!1){let n=location.hash.replace(/^#/,"")||"/home";if(_a){_a=!1;return}if(!e&&ae&&ae.view.canLeave&&xe!==null&&n!==xe&&!await ae.view.canLeave()){_a=!0,location.hash="#"+xe;return}let r=n.split("?")[0],o=dt.find(u=>u.re.test(r))||dt[0],i={},c=r.match(o.re);(o.params||[]).forEach((u,v)=>{i[u]=c[v+1]}),ae&&ae.cleanup&&ae.cleanup(),xe=n,ai(o.nav);let l=m("#view");if(o.admin&&!(de.isAdmin()||o.perm&&de.can(o.perm))){l.innerHTML=`<div class="page"><div class="empty"><span class="empty-ic empty-ic-warn">${h("lock",28)}</span><h3>${a(t("forbidden"))}</h3></div></div>`,ae=null;return}l.classList.remove("enter"),l.offsetWidth,l.classList.add("enter"),window.scrollTo({top:0,behavior:"instant"in window?"instant":"auto"});let s=await o.view.render(l,i,{store:de,navigate:mt});ae={view:o.view,cleanup:s};let p=m("h1",l);p&&document.activeElement===document.body&&p.setAttribute("tabindex","-1")}function mt(e,{force:n=!1}={}){n&&(xe=null),location.hash===e?ta(n):location.hash=e}async function ht(e=!1){let n=`${e?`<p class="modal-text">${a(t("mustChange"))}</p>`:""}
     <div class="field"><label for="pw-cur">${a(t("currentPassword"))}</label><input id="pw-cur" type="password" autocomplete="current-password" autofocus></div>
     <div class="field"><label for="pw-new">${a(t("newPassword"))}</label><input id="pw-new" type="password" autocomplete="new-password" aria-describedby="pw-hint"><p class="hint" id="pw-hint">${a(t("v_weak_password"))}</p></div>
     <p class="form-error" role="alert" hidden></p>`;await me({title:t("changePassword"),body:n,actions:[{label:t("cancel"),value:!1},{label:t("save"),kind:"btn-primary",handler:async r=>{let o=m(".form-error",r);try{return await P("/api/auth/password",{method:"POST",body:{current:m("#pw-cur",r).value,next:m("#pw-new",r).value}}),L(t("passwordChanged")),de.user.mustChange=!1,!0}catch(i){return o.hidden=!1,o.textContent=i.message,!1}}}]})}function Qe(e){document.body.innerHTML=`

diff --git a/employee-directory/sw.js b/employee-directory/sw.js
@@ -1,5 +1,5 @@
 /* Offline cache for the app shell. Data stays in the browser's localStorage. */
-const CACHE = "dtd-v23";
+const CACHE = "dtd-v24";
 const SHELL = [
   "./",
   "index.html",
@@ -18,15 +18,10 @@ const SHELL = [
   "assets/tour/dashboard.jpg",
   "assets/tour/directory.jpg",
   "assets/tour/drill.jpg",
-  "assets/tour/edit.jpg",
-  "assets/tour/focus.jpg",
   "assets/tour/home.jpg",
-  "assets/tour/import.jpg",
   "assets/tour/orgchart.jpg",
-  "assets/tour/plans.jpg",
   "assets/tour/profile.jpg",
-  "assets/tour/settings.jpg",
-  "assets/tour/users.jpg"
+  "assets/tour/settings.jpg"
 ];
 self.addEventListener("install", e => { e.waitUntil(caches.open(CACHE).then(c => c.addAll(SHELL)).then(() => self.skipWaiting())); });
 self.addEventListener("activate", e => { e.waitUntil(caches.keys().then(ks => Promise.all(ks.filter(k => k !== CACHE).map(k => caches.delete(k)))).then(() => self.clients.claim())); });

diff --git a/employee-directory/assets/styles.css b/employee-directory/assets/styles.css
@@ -2928,3 +2928,4 @@ html.tp-open { overflow: hidden; }
   .user-btn { padding: 2px; gap: 0; } .user-btn > *:not(.user-initial) { display: none !important; }
   .user-pop { inset-inline-end: 0; min-width: 230px; }
 }
+.dx-row.dx-row-one { grid-template-columns: minmax(0, 1fr); }

diff --git a/employee-directory/README.md b/employee-directory/README.md
@@ -26,7 +26,8 @@ python3 -m http.server 8000 --bind 127.0.0.1
 
 ## ملاحظات
 
-- **الجولة التعليمية:** في الصفحة الرئيسية بطاقة «كيف تستخدم المنصة» تفتح مشغّلًا بأسلوب الفيديو: صور حقيقية من المنصة مع تكبير تدريجي ومؤشر يتحرك وإبراز للجزء المشروح وشرح مكتوب، وتشغيل/إيقاف وشريط تقدم وخطوات قابلة للضغط وملء الشاشة واختصارات لوحة المفاتيح (المسافة، الأسهم، Esc). الخطوات تتغير حسب صلاحية المستخدم، وتفتح تلقائيًا في أول دخول لكل مستخدم، ويمكن فتحها لاحقًا من الصفحة الرئيسية أو من قائمة الاسم ← «جولة تعليمية». الصور في `assets/tour/`.
+- **الجولة التعليمية (للمستخدمين):** بطاقة «كيف تستخدم المنصة» في الصفحة الرئيسية تفتح مشغّلًا بأسلوب الفيديو بـ 8 خطوات للمستخدم العادي فقط (بدون أي شيء خاص بالإدارة): صور حقيقية من حساب «مشاهد»، تكبير تدريجي، مؤشر يتحرك، إبراز للجزء المشروح، وشرح مكتوب. **صوت إنجليزي** يشرح كل خطوة باستخدام الصوت المدمج في المتصفح (مجاني، بدون خادم)، والجولة تنتظر انتهاء كل جملة، مع زر كتم يُحفظ اختياره (الاختصار M). جودة الصوت تختلف حسب الجهاز، وإن لم يتوفر صوت إنجليزي تعمل الجولة بالنص فقط. تفتح تلقائيًا لكل مستخدم جديد بعد تغيير كلمة المرور في أول دخول، ولا تفتح تلقائيًا للمسؤولة.
+- **لوحة المعلومات للمستخدم العادي:** تظهر «نظرة عامة على القسم» بدل «ملخص الإدارة»، بدون «أولويات الإدارة» ولا عمود «متابعة عالية».
 - **قالب Excel بالإنجليزية:** القالب يُنزَّل دائمًا بالإنجليزية (الأوراق والعناوين والتعليمات وقيم القوائم)، والرفع يقبل القيم الإنجليزية والعربية.
 
 - **استيراد من Excel (حقيقي):** من «إدارة بيانات الموظفين ← الاستيراد»:
